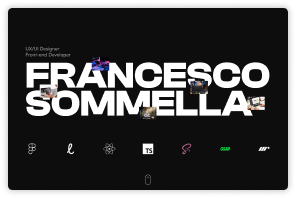
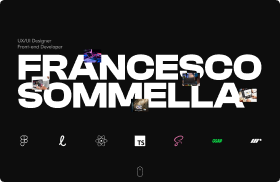
feat: update project components and improve responsive layouts
- Replace AboutIntro with AboutHero component and add animations
- Enhance responsive design for Playground and Project pages
- Update ProjectContents to use dynamic props for images and descriptions
- Add scroll animations to PlaygroundContents
- Adjust spacing and gaps across multiple components

diff --git a/francesco/src/Components/Data/ProjectsData.ts b/francesco/src/Components/Data/ProjectsData.ts
@@ -32,7 +32,7 @@ export const projectsData: ProjectsByYear[] = [
         year: 2025,
         category: "Fashion",
         brandShortDescription: "Amiuni è un progetto di branding moderno.",
-        bigHorizontalImg: "/images/amiuni-big.jpg"
+        bigHorizontalImg: "Amiuni-big"
       },
       {
         firstLetter: "Q",
@@ -45,7 +45,7 @@ export const projectsData: ProjectsByYear[] = [
         year: 2025,
         category: "Fashion",
         brandShortDescription: "QDK rappresenta un approccio corporate elegante.",
-        bigHorizontalImg: "/images/qdk-big.jpg"
+        bigHorizontalImg: "Amiuni-big"
       },
       {
         firstLetter: "O",
@@ -58,7 +58,7 @@ export const projectsData: ProjectsByYear[] = [
         year: 2025,
         category: "Fashion",
         brandShortDescription: "Origin rappresenta un approccio corporate elegante.",
-        bigHorizontalImg: "/images/qdk-big.jpg"
+        bigHorizontalImg: "Amiuni-big"
       }
     ]
   },
@@ -121,7 +121,7 @@ export const projectsData: ProjectsByYear[] = [
       {
         firstLetter: "A",
         name: "lliok",
-        img: "Frafolio",
+        img: "Amiuni",
         link: "/Lavori/Alliok",
         website: "https://www.Alliok.it",
         siteName: "Alliok.it",
@@ -129,7 +129,7 @@ export const projectsData: ProjectsByYear[] = [
         year: 2024,
         category: "Fashion",
         brandShortDescription: "Origin rappresenta un approccio corporate elegante.",
-        bigHorizontalImg: "/images/qdk-big.jpg"
+        bigHorizontalImg: "/images/amiuni-big.jpg"
       }
     ]
   },
@@ -169,6 +169,19 @@ export const projectsData: ProjectsByYear[] = [
         link: "/Lavori/Porok",
         website: "https://www.Porok.it",
         siteName: "Porok.it",
+        client: "",
+        year: 2024,
+        category: "Fashion",
+        brandShortDescription: "Origin rappresenta un approccio corporate elegante.",
+        bigHorizontalImg: "/images/qdk-big.jpg"
+      },
+      {
+        firstLetter: "K",
+        name: "polok",
+        img: "QDK",
+        link: "/Lavori/Kpolok",
+        website: "https://www.Kpolok.it",
+        siteName: "Kpolok.it",
         client: "",
         year: 2024,
         category: "Fashion",
@@ -237,7 +250,7 @@ export const projectsData: ProjectsByYear[] = [
       {
         firstLetter: "M",
         name: "lok",
-        img: "Frafolio",
+        img: "Amiuni",
         link: "/Lavori/Mlok",
         website: "https://www.Mlok.it",
         siteName: "Mlok.it",

diff --git a/francesco/src/Components/Organisms/PlaygroundContents/AnimationPlaygroundContents.ts b/francesco/src/Components/Organisms/PlaygroundContents/AnimationPlaygroundContents.ts
@@ -1,0 +1,54 @@
+import { useLayoutEffect, useRef } from "react";
+import gsap from "gsap";
+import ScrollTrigger from "gsap/ScrollTrigger";
+
+gsap.registerPlugin(ScrollTrigger);
+
+interface UsePlaygroundAnimationOptions {
+  selector?: string;
+}
+
+export const usePlaygroundAnimations = ({ selector = ".playground-item" }: UsePlaygroundAnimationOptions = {}) => {
+  const containerRef = useRef<HTMLDivElement>(null);
+
+  useLayoutEffect(() => {
+    const ctx = gsap.context(() => {
+      const items = gsap.utils.toArray(selector) as HTMLElement[];
+
+      items.forEach((item) => {
+        const tl = gsap.timeline({
+          scrollTrigger: {
+            trigger: item,
+            start: "top 80%",
+            end: "bottom 40%",
+            toggleActions: "play reverse play reverse",
+            onEnter: () => item.classList.add("is-visible"),
+            onLeaveBack: () => item.classList.remove("is-visible"),
+            onLeave: () => {
+              if (window.innerHeight + window.scrollY >= document.body.offsetHeight - 99) return;
+              item.classList.remove("is-visible");
+            },
+          },
+        });
+
+        tl.fromTo(item, {
+          opacity: 0,
+          scale: 0.6,
+          y: 30,
+          filter: "blur(4px)",
+        }, {
+          opacity: 1,
+          scale: 1,
+          y: 0,
+          filter: "blur(0px)",
+          duration: 0.6,
+          ease: "power2.inOut",
+        });
+      });
+    }, containerRef);
+
+    return () => ctx.revert();
+  }, [selector]);
+
+  return containerRef;
+};

diff --git a/francesco/src/Components/Organisms/PlaygroundContents/PlaygroundContents.tsx b/francesco/src/Components/Organisms/PlaygroundContents/PlaygroundContents.tsx
@@ -1,28 +1,35 @@
 import React from "react";
-// import { useSize } from "../../../Hooks/useSize";
-import { getPlaygroundProjects } from "../../../Utils/projectUtils";
-import { useTransition } from "../../../Providers/TransitionProvider/TransitionContext";
+
+// Atoms
 import InlineImage from "../../Atoms/InlineItems/InlineImage";
 
-// SCSS
+// Scss
 import "./PlaygroundContents.scss";
 
-const PlaygroundContents: React.FC = () => {
-  // const Size = useSize();
-  const { navigateWithTransition } = useTransition();
+// Utils
+import { getPlaygroundProjects } from "../../../Utils/projectUtils";
 
+// Providers
+import { useTransition } from "../../../Providers/TransitionProvider/TransitionContext";
+
+// Animations
+import { usePlaygroundAnimations } from "./AnimationPlaygroundContents";
+
+const PlaygroundContents: React.FC = () => {
+  const { navigateWithTransition } = useTransition();
   const playgroundProjects = getPlaygroundProjects();
+  const containerRef = usePlaygroundAnimations();
 
   return (
-    <div className="playground-container">
+    <div className="playground-container" ref={containerRef}>
       {playgroundProjects.map((project, index) => (
-        <div
+        <a
           key={index}
           className="playground-item"
           onClick={() => navigateWithTransition(project.link)}
         >
           <InlineImage folder="Lavori" name={project.img} size="L" />
-        </div>
+        </a>
       ))}
     </div>
   );

diff --git a/francesco/src/Components/Organisms/PlaygroundContents/PlaygroundContents.scss b/francesco/src/Components/Organisms/PlaygroundContents/PlaygroundContents.scss
@@ -3,32 +3,33 @@
 @use "../../../styles/typography" as *;
 
 .playground-container {
-  display: grid;
-  grid-template-columns: repeat(auto-fill, minmax(300px, 1fr));
-  grid-gap: 24px;
-  padding: $PaddingL;
-}
+  column-count: 4;
+  gap: $Gap-2;
 
-.playground-item {
-  cursor: pointer;
-  overflow: hidden;
-  border-radius: 16px;
-  box-shadow: 0 4px 16px rgba(0, 0, 0, 0.1);
-  transition: transform 0.3s ease;
-
-  &:hover {
-    transform: scale(1.03);
-  }
-
-  img {
-    width: 100%;
-    height: auto;
+  .playground-item {
     display: block;
-    object-fit: cover;
+    break-inside: avoid;
+    margin-bottom: $Gap-2;
+    transition: all 0.3s ease-out;
+
+    img {
+      width: 100%;
+      height: auto;
+      display: block;
+      object-fit: cover;
+    }
   }
 
-  .playground-title {
-    padding: 12px;
-    background: $GrayScale-9;
+  @include respond-to(tablet) {
+    column-count: 3;
+    gap: $Gap-2;
+  }
+  @include respond-to(mobile) {
+    column-count: 2;
+    gap: $Gap-1;
+
+    .playground-item {
+      margin-bottom: $Gap-1;
+    }
   }
 }

diff --git a/francesco/src/Components/Organisms/ProjectContents/ProjectContents.tsx b/francesco/src/Components/Organisms/ProjectContents/ProjectContents.tsx
@@ -10,7 +10,15 @@ import "./ProjectContents.scss";
 // Hooks
 import { useSize } from "../../../Hooks/useSize";
 
-const ProjectContents: React.FC = () => {
+interface ProjectContentsProps {
+  brandShortDescription: string;
+  bigHorizontalImg: string;
+}
+
+const ProjectContents: React.FC<ProjectContentsProps> = ({
+  brandShortDescription,
+  bigHorizontalImg,
+}) => {
   const Size = useSize();
 
   return (
@@ -18,12 +26,12 @@ const ProjectContents: React.FC = () => {
       <div className="project-contents__skills">
         <InlineIcon folder="Icons" size="X" name="Ellipse" />
         <span className={`subtitle-about-${Size}`}>
-          best brand di abigliamento in italia
+          {brandShortDescription}
         </span>
       </div>
 
       <div className="project-contents__image-wrapper">
-        <InlineImage folder="Lavori" name="Amiuni-big" size="L" />
+        <InlineImage folder="Lavori" name={bigHorizontalImg} size="L" />
       </div>
     </div>
   );

diff --git a/francesco/src/Pages/AboutPage/AboutPage.tsx b/francesco/src/Pages/AboutPage/AboutPage.tsx
@@ -10,7 +10,7 @@ import "./AboutPage.scss";
 import { useSize } from "../../Hooks/useSize";
 
 // Organisms
-import AboutIntro from "../../Components/Organisms/AboutContents/AboutIntro/AboutIntro";
+import AboutHero from "../../Components/Organisms/AboutContents/AboutHero/AboutHero";
 import AboutMain from "../../Components/Organisms/AboutContents/AboutMain/AboutMain";
 import AboutFooter from "../../Components/Organisms/AboutContents/AboutFooter/AboutFooter";
 
@@ -24,7 +24,7 @@ const AboutPage: React.FC = () => {
   return (
     <PageWrapper className="aboutPage" fullWidth>
       {isDesktop && <DesktopNav hideOnTop={true} />}
-      <AboutIntro />
+      <AboutHero />
       <AboutMain />
       <AboutFooter />
     </PageWrapper>

diff --git a/francesco/src/styles/general.scss b/francesco/src/styles/general.scss
@@ -56,23 +56,5 @@ html {
       margin-top: 120px;
       text-align: center;
     }
-
-    .full-width-section {
-      margin-left: -$PaddingL;
-      margin-right: -$PaddingL;
-      width: calc(100% + 2 * #{$PaddingL});
-
-      @include respond-to(tablet) {
-        margin-left: -$PaddingM;
-        margin-right: -$PaddingM;
-        width: calc(100% + 2 * #{$PaddingM});
-      }
-
-      @include respond-to(mobile) {
-        margin-left: -$PaddingS;
-        margin-right: -$PaddingS;
-        width: calc(100% + 2 * #{$PaddingS});
-      }
-    }
   }
 }

diff --git a/francesco/src/Components/Organisms/AboutContents/AboutHero/AboutHero.tsx b/francesco/src/Components/Organisms/AboutContents/AboutHero/AboutHero.tsx
@@ -1,7 +1,7 @@
 import React from "react";
 
 // Scss
-import "./AboutIntro.scss";
+import "./AboutHero.scss";
 
 // Atoms
 import InlineImage from "../../../Atoms/InlineItems/InlineImage";
@@ -12,7 +12,7 @@ import { useSize } from "../../../../Hooks/useSize";
 // Data
 import AboutContent from "../../../Data/About";
 
-const AboutIntro: React.FC = () => {
+const AboutHero: React.FC = () => {
   const Size = useSize();
 
   return (
@@ -39,4 +39,4 @@ const AboutIntro: React.FC = () => {
   );
 };
 
-export default AboutIntro;
+export default AboutHero;

diff --git a/francesco/src/Components/Organisms/ProjectContents/ProjectContents.scss b/francesco/src/Components/Organisms/ProjectContents/ProjectContents.scss
@@ -8,7 +8,7 @@
   display: flex;
   flex-direction: column;
   align-items: center;
-  gap: $Gap-6;
+  gap: $Gap-8;
 
   &__skills {
     width: 100%;
@@ -34,6 +34,7 @@
   }
 
   @include respond-to("tablet") {
+    gap: $Gap-7;
     &__skills {
       > span {
         max-width: 40%;
@@ -42,6 +43,7 @@
   }
 
   @include respond-to("mobile") {
+    gap: $Gap-7;
     &__skills {
       > span {
         max-width: 60%;

diff --git a/francesco/src/Pages/ProjectPage/ProjectPage.tsx b/francesco/src/Pages/ProjectPage/ProjectPage.tsx
@@ -74,7 +74,10 @@ const ProjectPage: React.FC = () => {
         </div>
       </div>
 
-      <ProjectContents />
+      <ProjectContents
+        brandShortDescription={project.brandShortDescription}
+        bigHorizontalImg={project.bigHorizontalImg}
+      />
       <ProjectController
         context={project.client === "" ? "Playground" : "Lavori"}
       />

diff --git a/francesco/src/Pages/ProjectPage/ProjectPage.scss b/francesco/src/Pages/ProjectPage/ProjectPage.scss
@@ -7,7 +7,7 @@
   display: flex;
   flex-direction: column;
   align-items: center;
-  gap: $Gap-7;
+  gap: $Gap-9;
 
   .base {
     height: 100dvh;
@@ -70,11 +70,11 @@
   }
 
   @include respond-to(tablet) {
-    gap: $Gap-5;
+    gap: $Gap-8;
   }
 
   @include respond-to(mobile) {
-    gap: $Gap-5;
+    gap: $Gap-7;
 
     .base {
       .main-info-container {

diff --git a/francesco/src/Hooks/useScrollDirection.ts b/francesco/src/Hooks/useScrollDirection.ts
@@ -15,7 +15,6 @@ export const useSmartScrollVisibility = ({
   bottomThreshold = 100,
 }: ScrollVisibilityOptions = {}) => {
 
-  // ✅ Calcolo iniziale intelligente:
   const getInitialVisibility = () => {
     const scrolledToTop = window.scrollY <= topThreshold;
     if (hideOnTop && scrolledToTop) return false;
